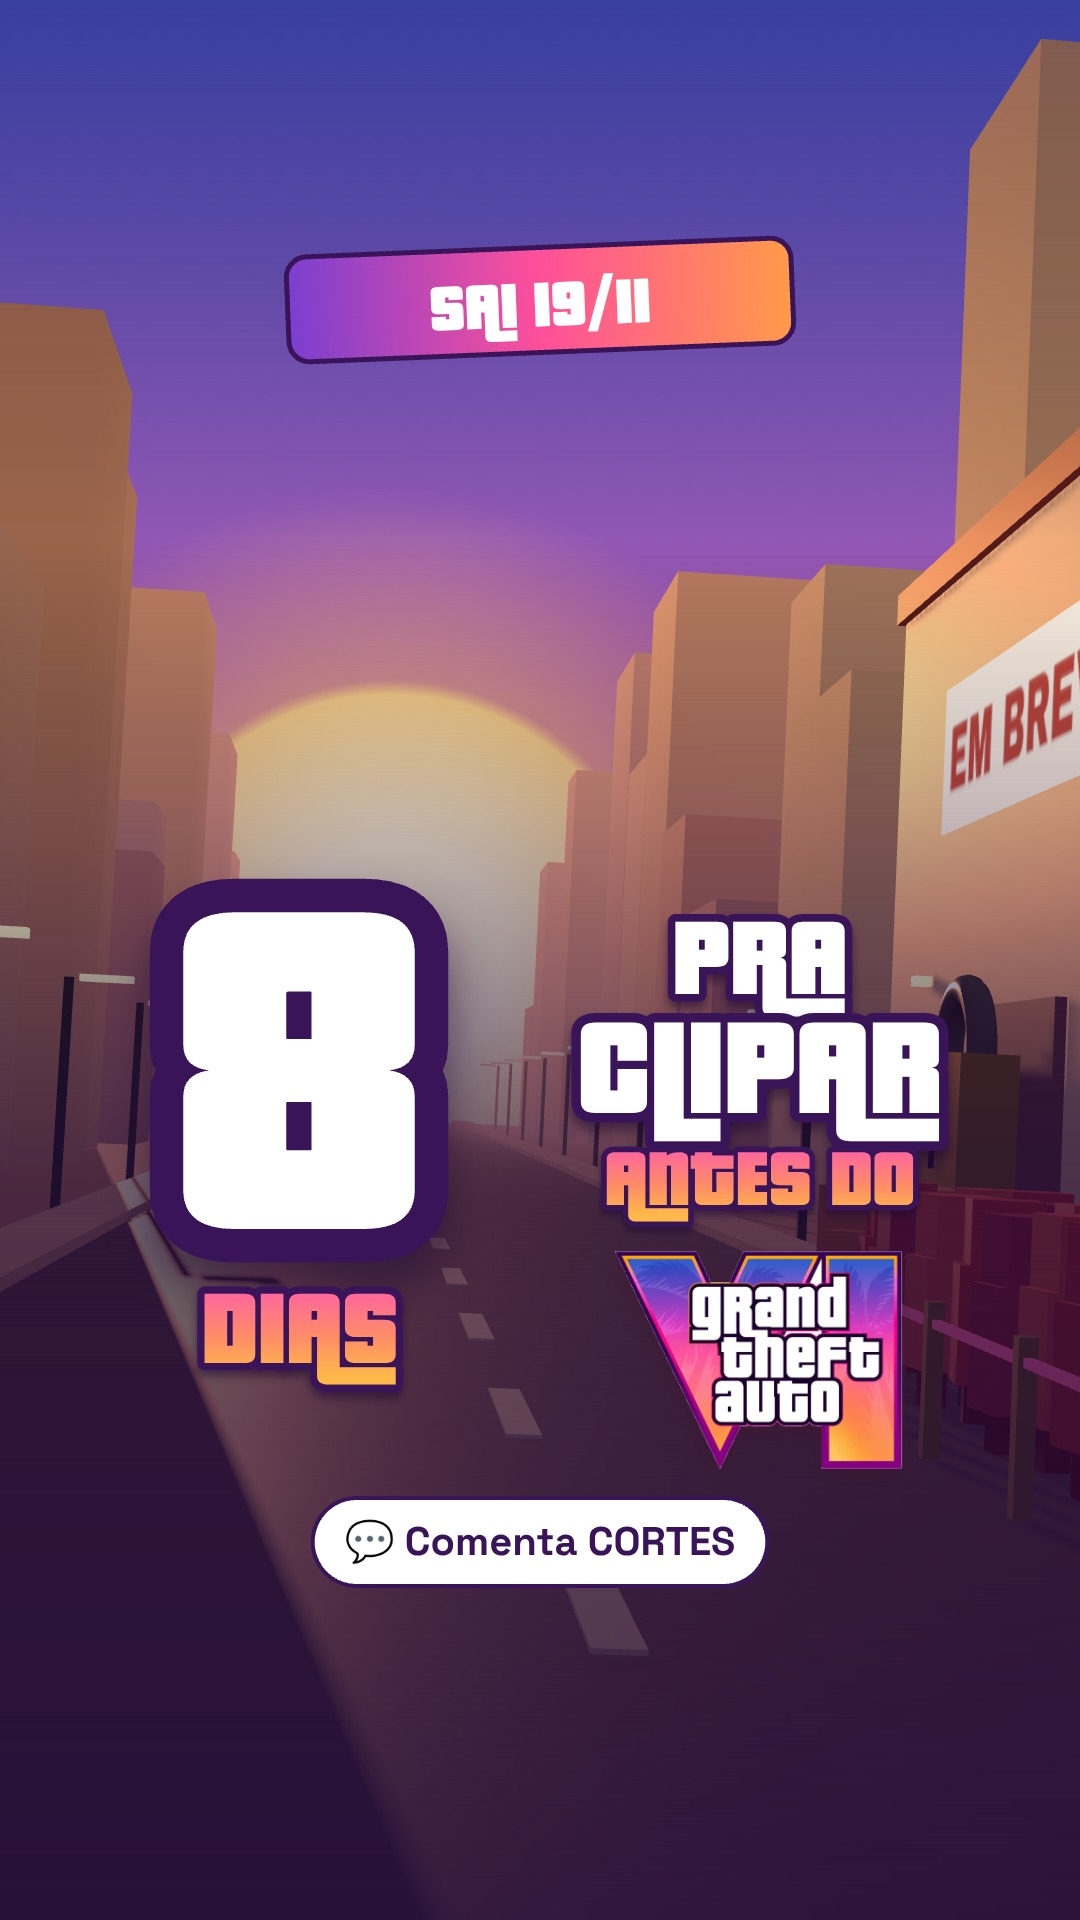
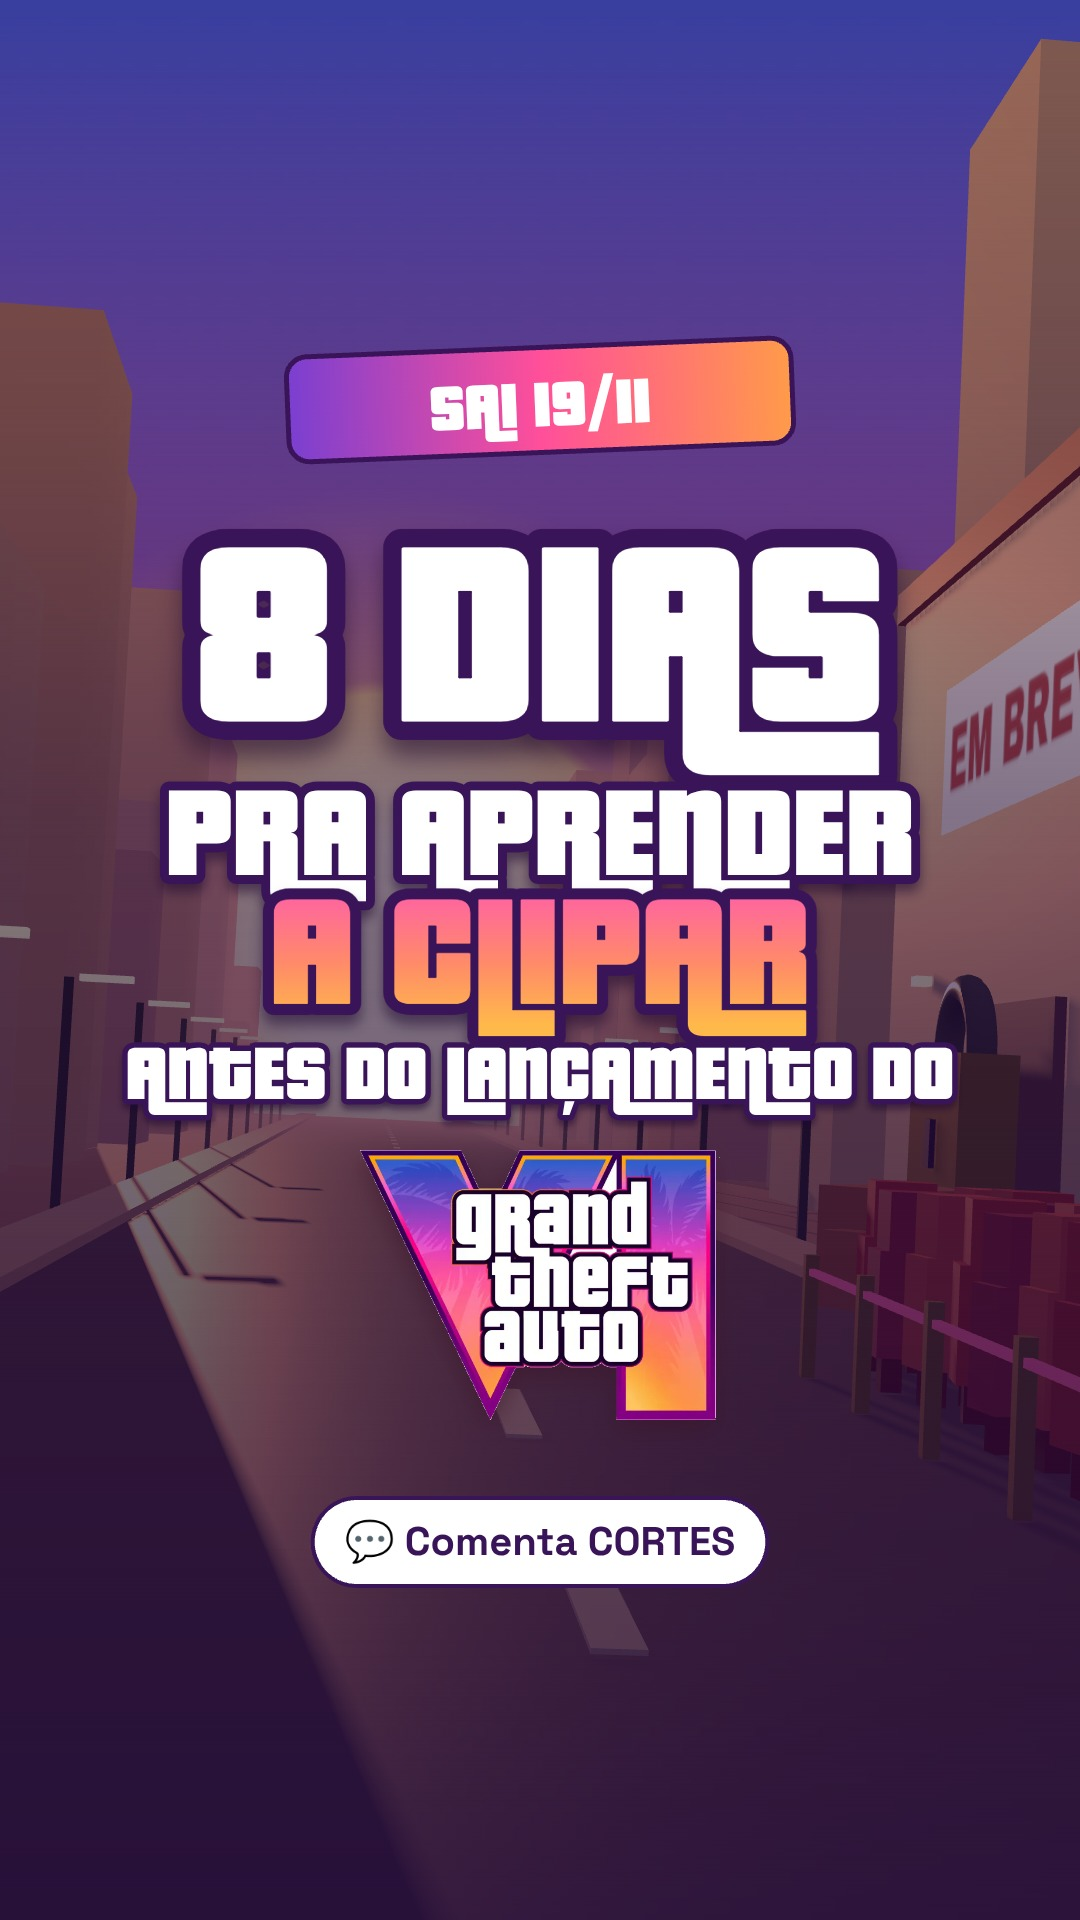
GTA: título '8 dias pra aprender a clipar antes do lançamento do GTA' na capa e na abertura
Claude-Session: https://claude.ai/code/session_01Q8XwFp4PbQRk1Sr59ew9Br

diff --git a/ia/video/cena_gta/index.html b/ia/video/cena_gta/index.html
@@ -191,7 +191,7 @@ function mundo(cena, lt, d, t) {
 function ui(cena, lt, d, t, s) {
   const Y = 760;
   if (cena === 'gancho') { const a = back(lin(lt, 0, .35)); X.save(); X.translate(505, 950); X.scale(a, a); neon(String(DIA), 0, 0, 280, '#fff', ROSA); X.restore();
-    const k = eo(lin(lt, .3, .7)); X.globalAlpha = k; neon('DIAS PRA CLIPAR', 505, 1110, 62, '#fff', ROSA); neon('ANTES DO', 395, 1235, 54, '#ffd36e', LARANJA); logo(640, 1235, 175);
+    const k = eo(lin(lt, .3, .7)); X.globalAlpha = k; neon('DIAS PRA APRENDER A CLIPAR', 505, 1110, 56, '#fff', ROSA); neon('ANTES DO LANÇAMENTO DO', 420, 1225, 48, '#ffd36e', LARANJA); logo(800, 1225, 165);
     X.font = fnt(30, 'SG'); const tx = 'lançamento: 19 nov 2026'; const tw = X.measureText(tx).width + 40; pil(505 - tw / 2, 1330, tw, 48, 24, 'rgba(58,28,40,.8)'); X.fillStyle = '#fff'; X.textAlign = 'center'; X.textBaseline = 'middle'; X.fillText(tx, 505, 1355); X.globalAlpha = 1;
     if (lt > d * .55) { const b = back(lin(lt, d * .55, d * .55 + .3)); X.save(); X.translate(505, 560); X.rotate(-.05); X.scale(b, b); pil(-260, -48, 520, 96, 16, '#e8283c'); X.fillStyle = '#fff'; X.font = fnt(50); X.textAlign = 'center'; X.textBaseline = 'middle'; X.fillText('AINDA NÃO SAIU', 0, 4); X.restore(); } }
   if (cena === 'oportunidade') { const k1 = eo(lin(lt, .1, .5)), k2 = eo(lin(lt, .7, 1.1)); X.globalAlpha = k1; neon('MAIOR OPORTUNIDADE', 505, 980, cabe('MAIOR OPORTUNIDADE', 74, 860), '#fff', ROSA); X.globalAlpha = k2; neon('DA GERAÇÃO.', 505, 1070, 74, ROSA, '#ff9ad1'); X.globalAlpha = 1; }
@@ -262,10 +262,11 @@ window.setT = t => {
 window.capa = () => {
   mundo('gancho', 9, 10, 1.3); CAD.scale.setScalar(1); CAD.visible = true;
   hemi.intensity = 1.6; cam.fov = 46; cam.updateProjectionMatrix(); cam.position.copy(V(-1.2, 2.4, 17)); cam.lookAt(V(2.2, 5.2, -30)); cam.rotateZ(.05); R.render(S, cam); cam.fov = 40; cam.updateProjectionMatrix(); hemi.intensity = 1.25;
-  X.clearRect(0, 0, 1080, 1920); const vg = X.createLinearGradient(0, 0, 0, 1920); vg.addColorStop(0, 'rgba(30,10,60,.2)'); vg.addColorStop(.28, 'rgba(0,0,0,0)'); vg.addColorStop(.42, 'rgba(30,10,60,.25)'); vg.addColorStop(.6, 'rgba(30,10,60,.62)'); vg.addColorStop(.85, 'rgba(30,10,60,.72)'); vg.addColorStop(1, 'rgba(30,10,60,.8)'); X.fillStyle = vg; X.fillRect(0, 0, 1080, 1920);
-  X.save(); X.translate(540, 300); X.rotate(-.04); const sg = X.createLinearGradient(-250, 0, 250, 0); sg.addColorStop(0, '#7b3fd0'); sg.addColorStop(.5, '#ff4f9a'); sg.addColorStop(1, '#ff9a4a'); X.lineWidth = 10; X.strokeStyle = '#3a1458'; X.beginPath(); X.roundRect(-250, -50, 500, 100, 18); X.stroke(); pil(-250, -50, 500, 100, 18, sg); X.fillStyle = '#fff'; X.font = fnt(58, 'PD'); X.textAlign = 'center'; X.textBaseline = 'middle'; X.fillText('SAI 19/11', 0, 6); X.restore();
-  neon(String(DIA), 300, 1080, 420, '#fff', ROSA); neon('DIAS', 300, 1330, 92, '#ffd36e', LARANJA);
-  neon('PRA', 760, 960, 96, '#fff', ROSA); neon('CLIPAR', 760, 1070, 120, '#fff', ROSA); neon('ANTES DO', 760, 1180, 70, '#ffd36e', LARANJA); logo(760, 1360, 290);
+  X.clearRect(0, 0, 1080, 1920); const vg = X.createLinearGradient(0, 0, 0, 1920); vg.addColorStop(0, 'rgba(30,10,60,.2)'); vg.addColorStop(.22, 'rgba(30,10,60,.35)'); vg.addColorStop(.42, 'rgba(30,10,60,.55)'); vg.addColorStop(.6, 'rgba(30,10,60,.62)'); vg.addColorStop(.85, 'rgba(30,10,60,.72)'); vg.addColorStop(1, 'rgba(30,10,60,.8)'); X.fillStyle = vg; X.fillRect(0, 0, 1080, 1920);
+  X.save(); X.translate(540, 400); X.rotate(-.04); const sg = X.createLinearGradient(-250, 0, 250, 0); sg.addColorStop(0, '#7b3fd0'); sg.addColorStop(.5, '#ff4f9a'); sg.addColorStop(1, '#ff9a4a'); X.lineWidth = 10; X.strokeStyle = '#3a1458'; X.beginPath(); X.roundRect(-250, -50, 500, 100, 18); X.stroke(); pil(-250, -50, 500, 100, 18, sg); X.fillStyle = '#fff'; X.font = fnt(58, 'PD'); X.textAlign = 'center'; X.textBaseline = 'middle'; X.fillText('SAI 19/11', 0, 6); X.restore();
+  neon(String(DIA) + ' DIAS', 540, 640, 230, '#fff', ROSA);
+  neon('PRA APRENDER', 540, 835, 112, '#fff', ROSA); neon('A CLIPAR', 540, 955, 138, 'grad', ROSA);
+  neon('ANTES DO LANÇAMENTO DO', 540, 1075, 68, '#fff', ROSA); logo(540, 1285, 360);
   X.font = fnt(40, 'SG'); const tx = '💬 Comenta CORTES'; const tw = X.measureText(tx).width + 60; X.lineWidth = 8; X.strokeStyle = '#3a1458'; X.beginPath(); X.roundRect(540 - tw / 2, 1500, tw, 84, 42); X.stroke(); pil(540 - tw / 2, 1500, tw, 84, 42, '#fff'); X.fillStyle = '#3a1458'; X.textAlign = 'center'; X.textBaseline = 'middle'; X.fillText(tx, 540, 1544);
 };
 window.pronto = true;
